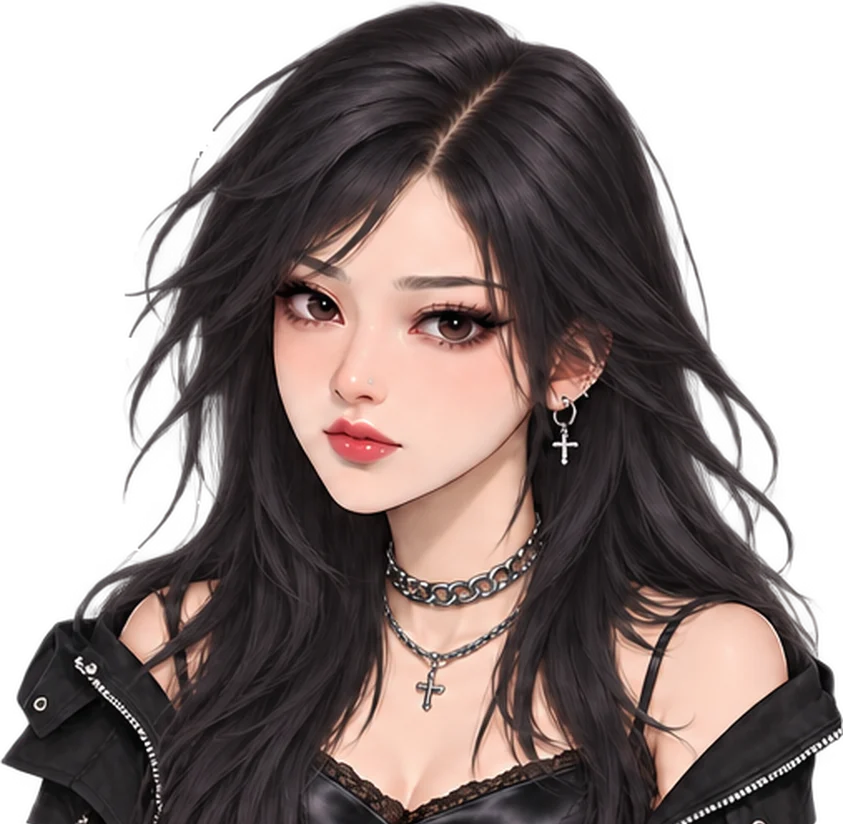
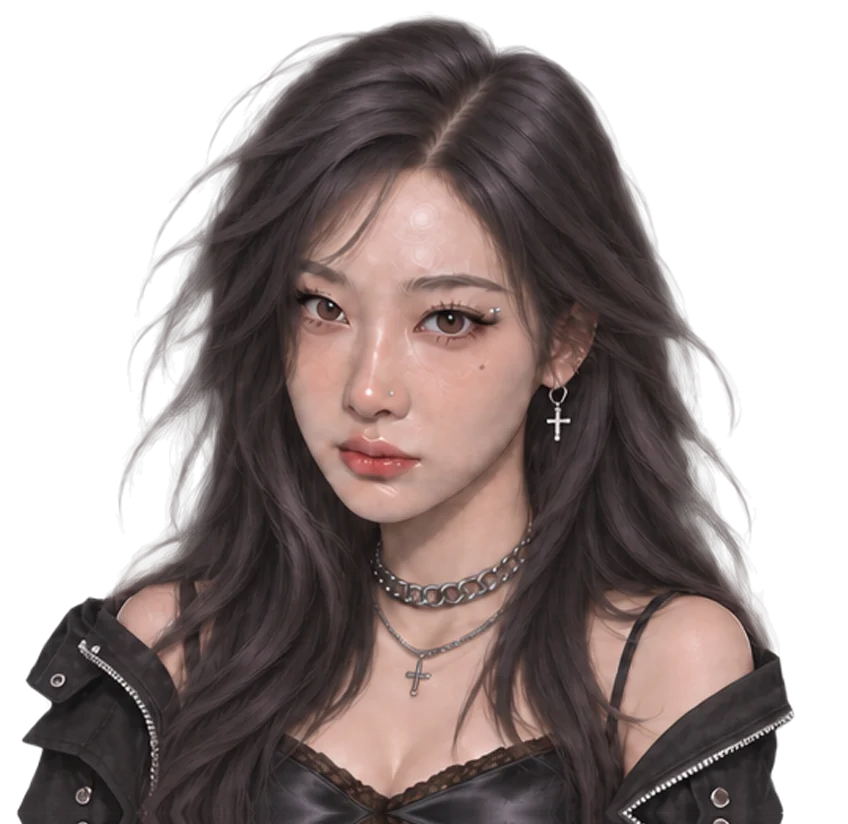
Art batch 143, group 1: Solar's new HOAX faces (casual, school, party)
Kat's three updated 3x2 sheets cut onto the old canvases, one shared scale per sheet
matched to the old neutral's head, cells kept on the grid so she doesn't jump.
FEMC_PORTRAIT_V 31, scale.js v171.

diff --git a/femc-game.html b/femc-game.html
@@ -37,7 +37,7 @@
   <!-- Art indexes, and the battle game's data, rules and save shape (the field menu reads levels, Personas and gear through
        them; the fights themselves run in femc-battle.html?embed=1 inside this page). -->
   <script src="assets/femc/portraits/index.js?v=156"></script>
-  <script src="assets/femc/portraits/scale.js?v=170"></script>
+  <script src="assets/femc/portraits/scale.js?v=171"></script>
   <script src="assets/femc/portraits/place.js?v=5"></script>
   <script src="assets/femc/tarot/index.js?v=132"></script>
   <script src="assets/femc/battle/data.js?v=41"></script>

diff --git a/assets/femc/portraits/scale.js b/assets/femc/portraits/scale.js
@@ -295,4 +295,4 @@ window.FEMC_PORTRAIT_SCALE = {
 window.FEMC_PORTRAIT_DROP = { fuuka: 0.08, jaemin: 0.08, chenle: 0.14 }; // jungwon's 0.1 was for the old set (batch 51)
 
 /* Bump when portrait images change, so browsers fetch the new faces. */
-window.FEMC_PORTRAIT_V = 30;
+window.FEMC_PORTRAIT_V = 31;
